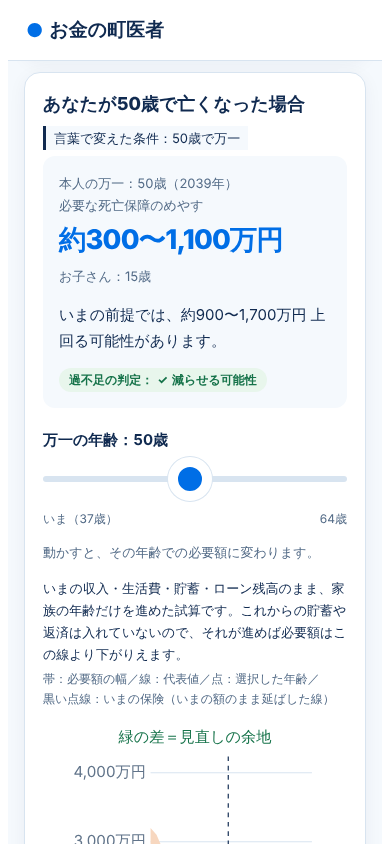
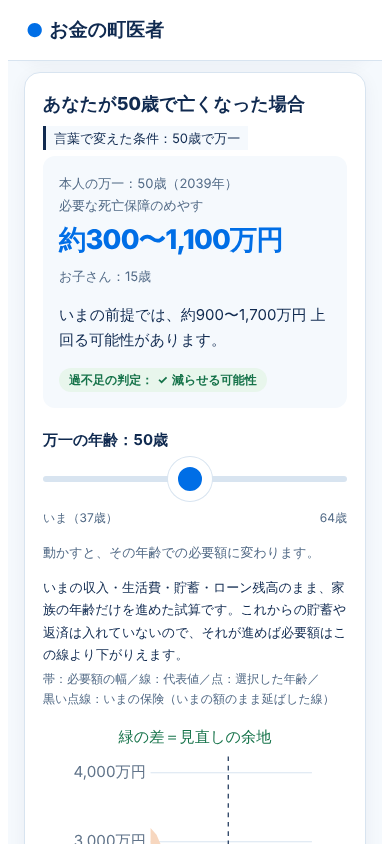
fix(lab-words): 言葉のカードを既定で畳み、失敗を一時的と言い、図のラベルの重なりを直す（UX レビュー2回目）
- 言葉のカードは見出しと変えられるもの（年齢・働き方・病気やけが）の1行に畳む。390px の最初の画面に必要額が入る
- AI につながらなかったときは、一時的なものと書いて「読み取れなかった」と区別する
- 1280px の図で「緑の差＝見直しの余地」を図の上の余白へ。「いまの保険」のラベルと重ならない

Claude-Session: https://claude.ai/code/session_01YWmEMGuHZXo4Jq3P7EXuS8

diff --git a/app/lab/Words.tsx b/app/lab/Words.tsx
@@ -6,11 +6,13 @@
  * 「こう受け取りました」も断りの文も、サーバがコードの表から作った文を出す。
  * 金額と判定は、ふだんのボタン操作と同じく、算定済みのデータから引き直す（AI は触れない）。
  *
- * **由来は折りたたみの外で開示する**（UIラベル規約「由来は本文で開示する」）。
+ * 既定は畳んだ1行（見出し＋変えられるもの）。開かないと使えないので、由来は開いた先の先頭で、入力より前に必ず読める。
+ * 畳むのは、390px の最初の画面に時期のカードの必要額を入れるため（2026-10-18 UX レビュー2回目）。
  */
 import { useId, useState } from "react";
 import type { LabChanges, LabWordsResult } from "../../src/lab/words.js";
 import { LAB_WORDS_MAX_CHARS } from "../../src/lab/words.js";
+import { Fold } from "../result/Fold.js";
 import s from "./page.module.css";
 
 type State =
@@ -21,7 +23,9 @@ type State =
 
 const ERROR_TEXT: Record<string, string> = {
   rate_limited: "いま混み合っています。少し時間をおいてから試してください。",
-  ai_unavailable: "いまは言葉で受け取れません。下のボタンやスライダーで確かめてください。",
+  // 「読み取れなかった」（unclear の断りの文）と区別できるように、つながらなかったことと一時的なことを言う
+  ai_unavailable:
+    "AI につながらず、言葉を受け取れませんでした。一時的なものなので、少し時間をおいて試すか、下のボタンやスライダーで確かめてください。",
 };
 
 export function Words({
@@ -65,58 +69,53 @@ export function Words({
   }
 
   return (
-    <section className={`${s.card} ${s.wordsCard}`} aria-labelledby={`${inputId}-title`}>
-      <h2 id={`${inputId}-title`}>言葉で確かめる</h2>
-      <p className={s.note}>
-        {
-          "言葉を操作に置きかえるのは AI です。金額と判定は計算エンジンが出し、AI は変えられません。"
-        }
-      </p>
-      {/* 何を受け付けるかを入力の前に言う（2026-10-17 UX レビュー）。名前は断りの文と同じ語にそろえる */}
-      {/* 受け取ったあとは札が答えになるので畳む（先頭から最初の図までを1画面に収める・視覚 DoD (a)） */}
-      {state.kind !== "done" && (
+    <section className={`${s.card} ${s.wordsCard}`} aria-label="言葉で確かめる">
+      <Fold
+        label="言葉で確かめる"
+        count={hasSpouse ? "（年齢・働き方・病気やけが）" : "（年齢・病気やけが）"}
+      >
         <p className={s.note}>
-          {hasSpouse
-            ? "変えられるのは、万一の年齢・配偶者の働き方・病気やけがの種類の3つです。"
-            : "変えられるのは、万一の年齢・病気やけがの種類の2つです。"}
+          {
+            "言葉を操作に置きかえるのは AI です。金額と判定は計算エンジンが出し、AI は変えられません。"
+          }
         </p>
-      )}
-      <form className={s.wordsForm} onSubmit={submit}>
-        <textarea
-          id={inputId}
-          aria-label="確かめたい「もしも」"
-          className={s.wordsInput}
-          rows={1}
-          maxLength={LAB_WORDS_MAX_CHARS}
-          placeholder="例：50歳で亡くなったら"
-          value={text}
-          onChange={(e) => setText(e.target.value)}
-        />
-        <button className={s.wordsButton} type="submit" disabled={state.kind === "sending"}>
-          {state.kind === "sending" ? "受け取っています…" : "この条件で確かめる"}
-        </button>
-      </form>
-      <div aria-live="polite">
-        {state.kind === "done" && state.result.kind === "apply" && (
-          <div className={s.wordsReadout}>
-            <ul className={s.chips} aria-label="こう受け取りました">
-              {state.result.chips.map((c) => (
-                <li key={c}>{c}</li>
+        <form className={s.wordsForm} onSubmit={submit}>
+          <textarea
+            id={inputId}
+            aria-label="確かめたい「もしも」"
+            className={s.wordsInput}
+            rows={1}
+            maxLength={LAB_WORDS_MAX_CHARS}
+            placeholder="例：50歳で亡くなったら"
+            value={text}
+            onChange={(e) => setText(e.target.value)}
+          />
+          <button className={s.wordsButton} type="submit" disabled={state.kind === "sending"}>
+            {state.kind === "sending" ? "受け取っています…" : "この条件で確かめる"}
+          </button>
+        </form>
+        <div aria-live="polite">
+          {state.kind === "done" && state.result.kind === "apply" && (
+            <div className={s.wordsReadout}>
+              <ul className={s.chips} aria-label="こう受け取りました">
+                {state.result.chips.map((c) => (
+                  <li key={c}>{c}</li>
+                ))}
+              </ul>
+              {state.result.notes.map((n) => (
+                <p className={s.note} key={n}>
+                  {n}
+                </p>
               ))}
-            </ul>
-            {state.result.notes.map((n) => (
-              <p className={s.note} key={n}>
-                {n}
-              </p>
-            ))}
-            <p className={s.note}>違っていたら、ボタンやスライダーで直せます。</p>
-          </div>
-        )}
-        {state.kind === "done" && state.result.kind === "unsupported" && (
-          <p className={s.wordsReadout}>{state.result.message}</p>
-        )}
-        {state.kind === "error" && <p className={s.wordsReadout}>{state.message}</p>}
-      </div>
+              <p className={s.note}>違っていたら、ボタンやスライダーで直せます。</p>
+            </div>
+          )}
+          {state.kind === "done" && state.result.kind === "unsupported" && (
+            <p className={s.wordsReadout}>{state.result.message}</p>
+          )}
+          {state.kind === "error" && <p className={s.wordsReadout}>{state.message}</p>}
+        </div>
+      </Fold>
     </section>
   );
 }

diff --git a/app/lab/page.module.css b/app/lab/page.module.css
@@ -70,6 +70,8 @@
 .legendItem { white-space: nowrap; }
 
 .wordsCard h2 { margin: 0 0 4px; }
+/* 畳んだ1行のときにカードが厚くならないように（見出しの行は Fold が余白を持つ） */
+.wordsCard { padding-block: 4px; }
 .wordsCard > .note { margin: 0 0 12px; }
 .wordsForm { display: grid; gap: 8px; }
 .wordsInput { width: 100%; box-sizing: border-box; min-height: 48px; padding: 10px 12px; font: inherit; font-size: 16px; color: var(--color-text); background: var(--color-surface); border: 1px solid var(--color-border); border-radius: 8px; resize: vertical; }

diff --git a/app/lab/Lab.tsx b/app/lab/Lab.tsx
@@ -175,7 +175,8 @@ function Curve({
       {coverage !== null && points.some((p) => coverage > p.high) && (
         <text
           x={mobile ? 130 : 400}
-          y={mobile ? 14 : 108}
+          // 図の上の余白に置く。中ほどに置くと「いまの保険」のラベルと重なる（1280px・2026-10-18 UX レビュー2回目）
+          y={14}
           textAnchor="middle"
           fontSize={font}
           fill="var(--color-success-text)"
